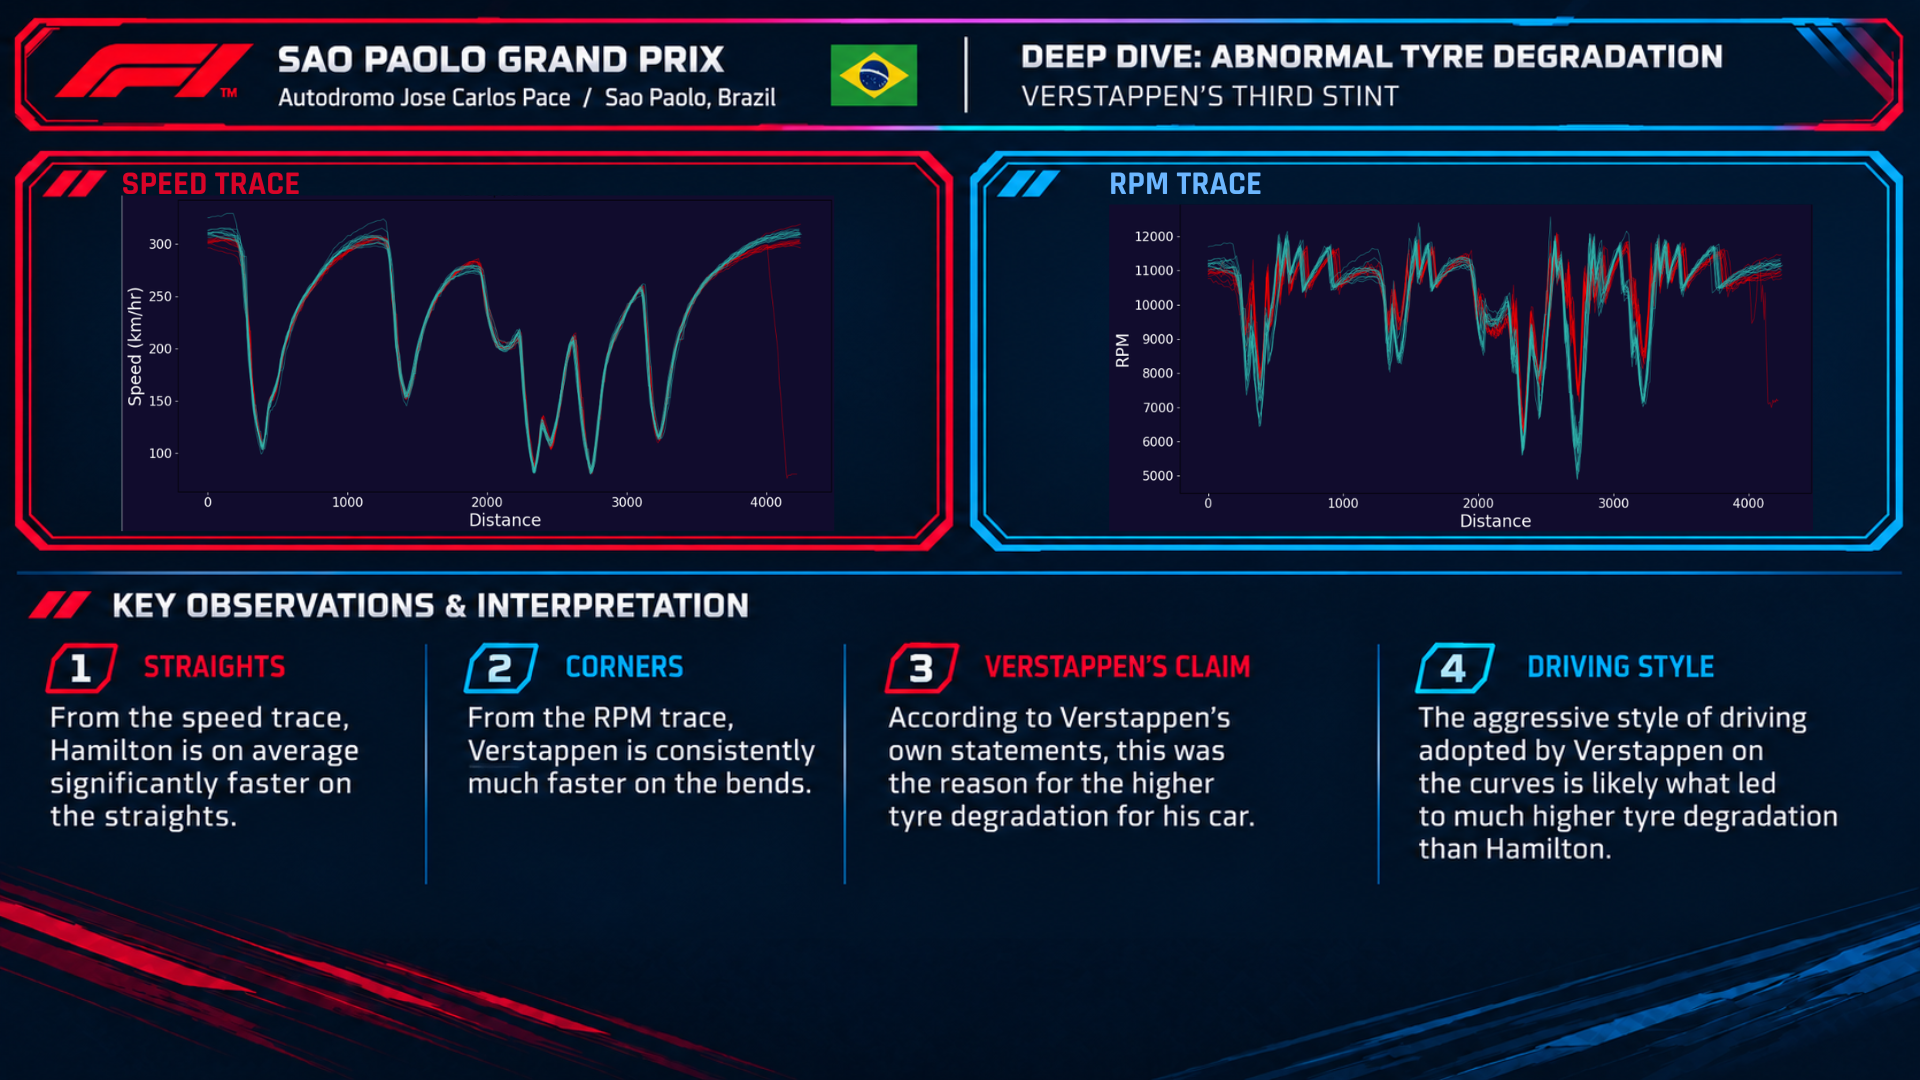
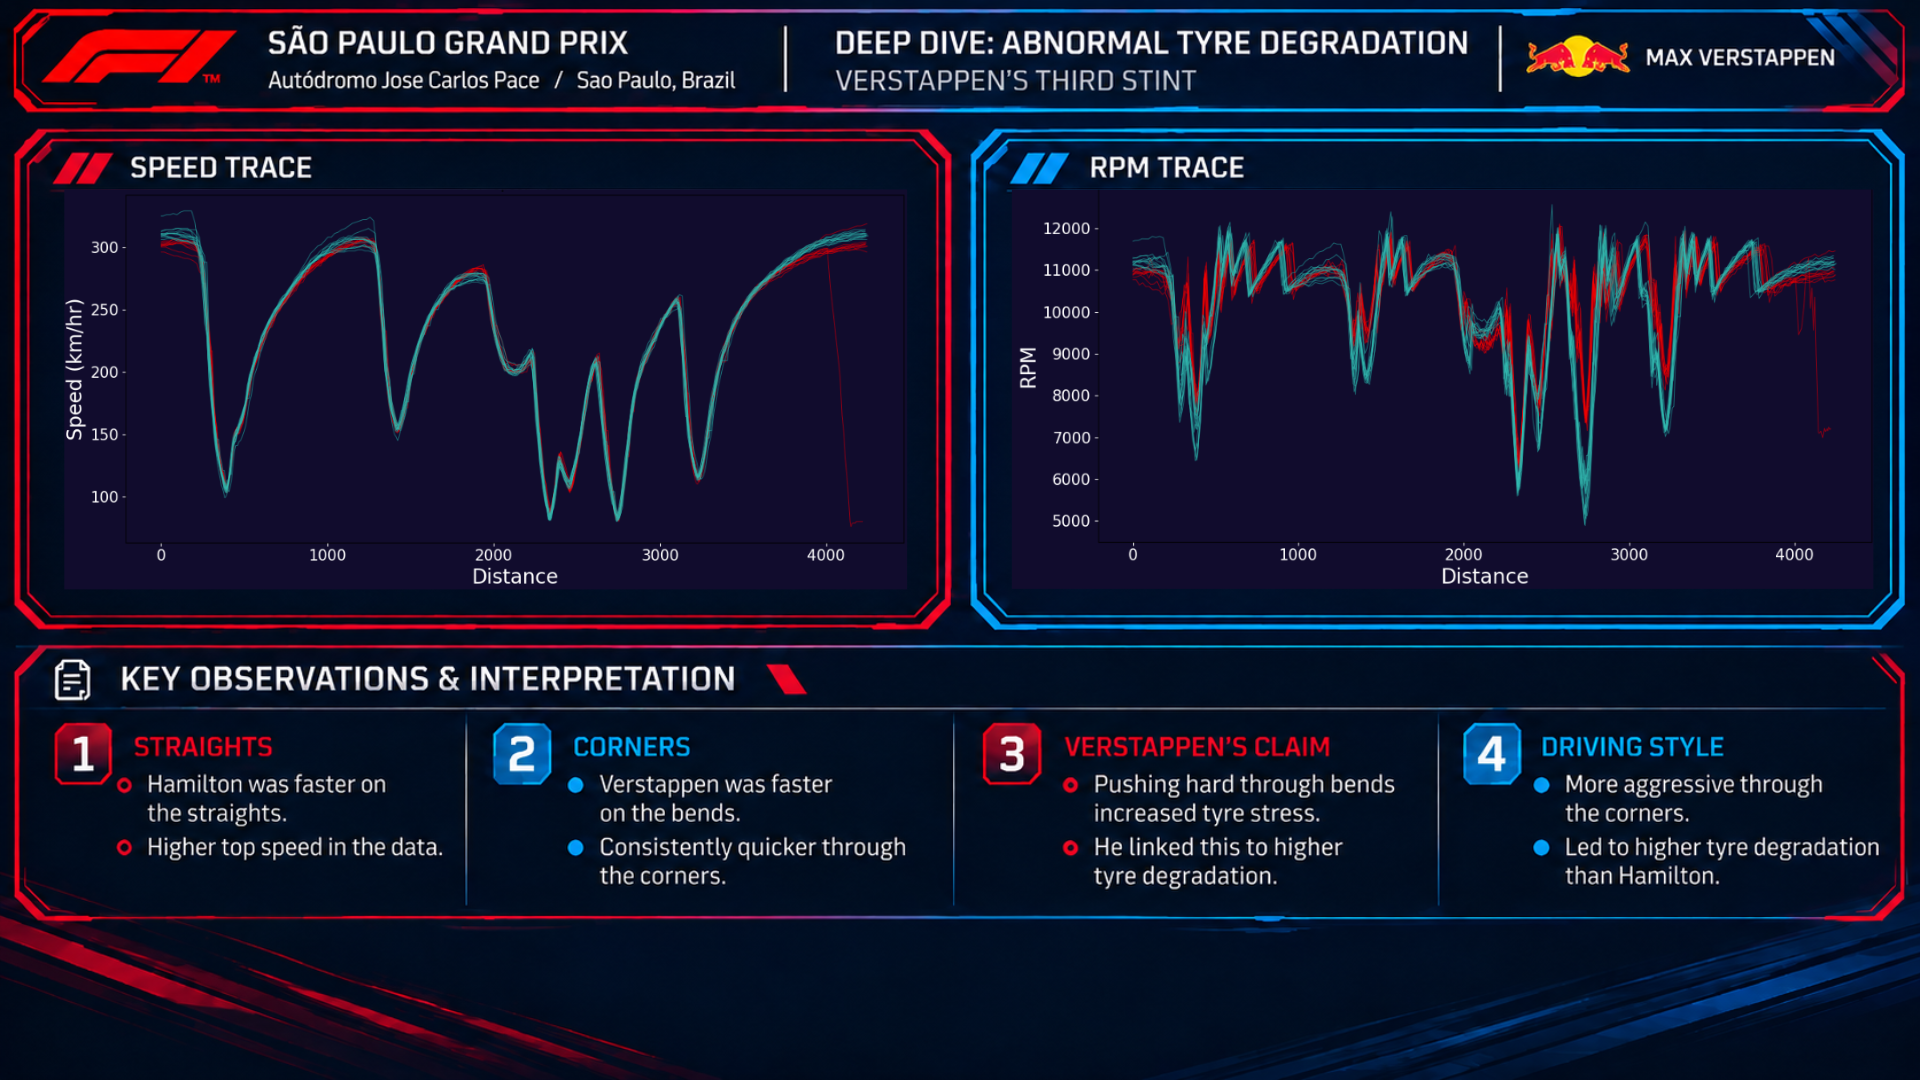
Refined slides

Changed region(s): [[0.0, 0.0, 1.0, 1.0], [0.7188, 0.825, 0.75, 0.8556]]

diff --git a/TyreDegradation.py b/TyreDegradation.py
@@ -45,7 +45,7 @@ class DegradationData:
             padx=20,
             pady=10,
             command=self.on_continue)
-        self.button1.place(x=0.98*self.screen_width, y=0.99*self.screen_height, anchor="se")
+        self.button1.place(x=0.98*self.screen_width, y=1.1*self.screen_height, anchor="se")
         self.slide3.mainloop()
 
     def on_continue(self):
